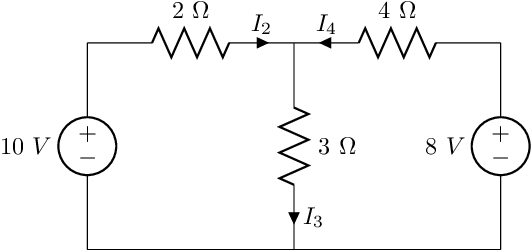
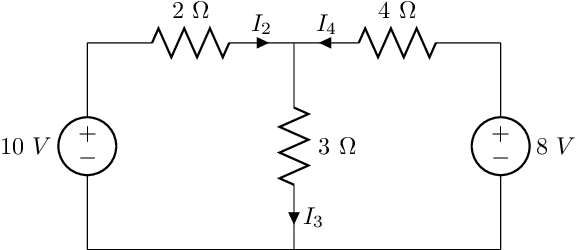
college 2 modifications

diff --git a/colleges/material/circuits/college2/circuit4.tex b/colleges/material/circuits/college2/circuit4.tex
@@ -12,8 +12,9 @@
       
       (3,0) 
       to[short] (6,0)
-      to[V, v=$8~V$] (6,3)
+      to[V, v_=$8~V$] (6,3)
       to[R, l_=$4~\Omega$, i_=$I_4$] (3,3)
       ;
+    
 \end{circuitikz}
 \end{document}
